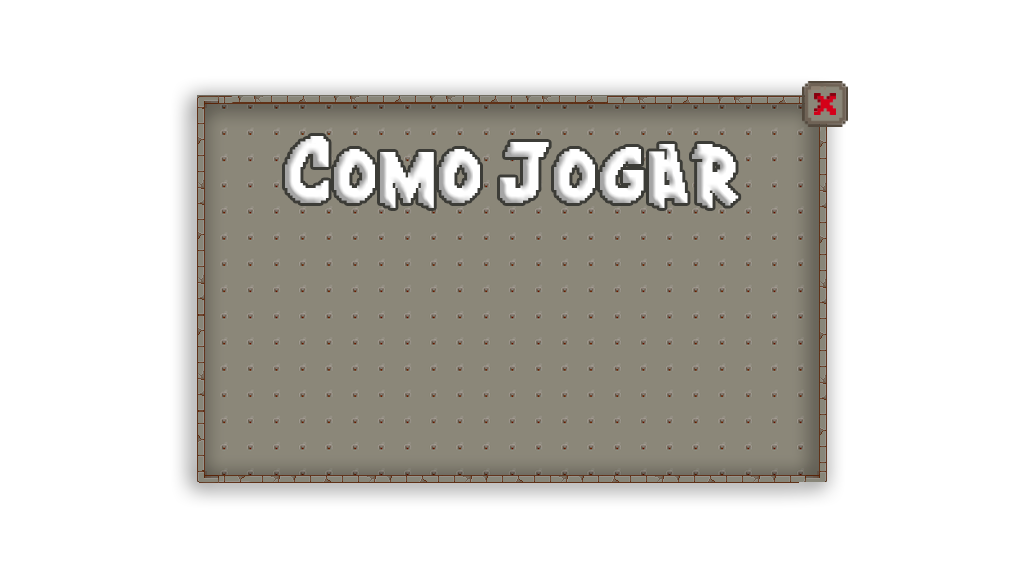
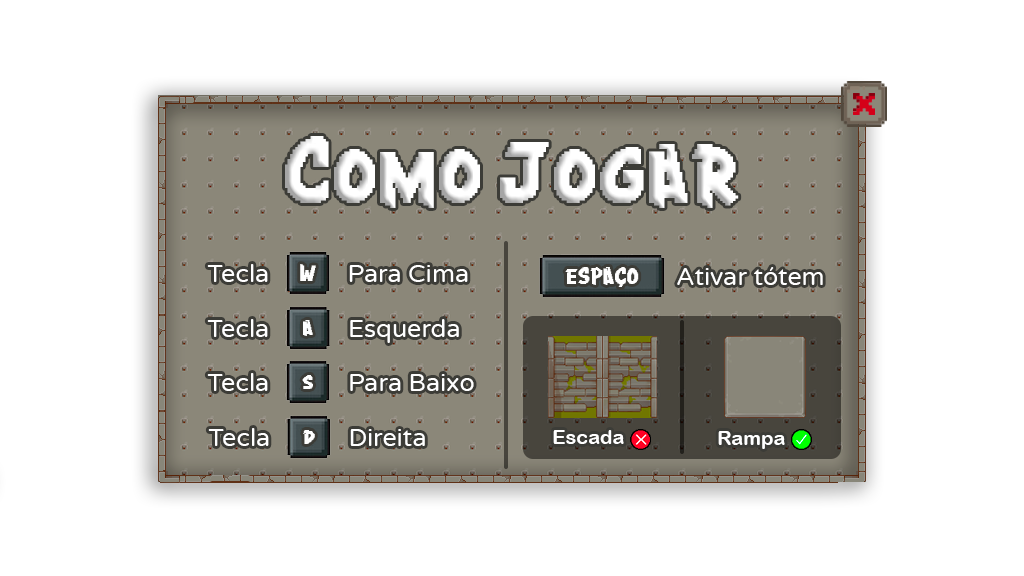
pg vitoria + como jogar + nivel

diff --git a/game.html b/game.html
@@ -5,7 +5,10 @@
     <meta name="viewport" content="width=device-width, initial-scale=1.0">
     <title>Document</title>
     <link rel="stylesheet" href="/style/game.css">
-    
+    <link rel="preconnect" href="https://fonts.googleapis.com">
+    <link rel="preconnect" href="https://fonts.googleapis.com">
+    <link rel="preconnect" href="https://fonts.gstatic.com" crossorigin>
+    <link href="https://fonts.googleapis.com/css2?family=Varela+Round&display=swap" rel="stylesheet">
 </head>
 <body class="imagem_fundo">
     <div class="menu">
@@ -17,7 +20,7 @@
     
  
     <div id='fim_do_jogo'>
-        <input type="image" src="img/botao_jogar.png" height="70" value="Jogar" id="botao_jogar" onclick="jogar_novamente()">
+        <input type="image" src="img/botao_voltar.png" height="70" value="Jogar" id="botao_voltar" onclick="jogar_novamente()">
         <img src="img/Tela Final Jogo.png">
         <h1 id="Timer"> Timer</h1>
     </div>
@@ -30,7 +33,15 @@
    <div id="teste">
     <input type="image" src="img/botao_jogar.png" value="Jogar" id="botao_jogar" onclick="iniciar()">
     <input type="image" src="img/botao_comojogar.png" value="Como Jogar" id="botao_comojogar" onclick="f_comojogar()">
-    <img src="img/Tela Inicial Jogo3.png">
+    <div id="nivel_div">
+        <h2 id="nome_nivel">Selecione o Nível:</h2>
+        <select name="nivel" id="nivel">
+            <option value="nivel1">Fácil</option>
+            <option value="nivel2">Médio</option>
+            <option value="nivel3">Difícil</option>
+        </select>
+    </div>
+    <img src="img/Tela Inicial Jogo2.png">
    </div>
     
     <div id="canvas">

diff --git a/style/game.css b/style/game.css
@@ -85,13 +85,18 @@ body{
 
 #botao_jogar{
     position: absolute;
-    top: 56.2%;
+    top: 52.2%;
     left: 40.6%;
+}
+#botao_voltar{
+    position: absolute;
+    top: 66.4%;
+    left: 40.9%;
 }
 
 #botao_comojogar{
     position: absolute;
-    top: 72.6%;
+    top: 68.6%;
     left: 36%;
 }
 
@@ -139,5 +144,55 @@ body{
     height: 46px;
     position: absolute;
     top: 14.1%;
-    left: 78.3%;
+    left: 82%;
 }
+
+#Timer{
+    position: absolute;
+    top: 53%;
+    left: 32%;
+    text-align: center;
+    font-family: 'Varela Round', sans-serif;
+    color: white;
+    text-shadow: 3px 3px black;
+
+}
+
+#nome_nivel{
+    font-family: 'Varela Round', sans-serif;
+    color: white;
+    text-shadow: 3px 3px black;
+}
+
+#nivel_div{
+    display: flex;
+    flex-direction: column;
+    align-items: center;
+    position: absolute;
+    top: 84%;
+    left: 40.8%;
+}
+
+select {
+    -webkit-appearance:none;
+    -moz-appearance:none;
+    -ms-appearance:none;
+    appearance:none;
+    outline:0;
+    box-shadow:none;
+    border:0!important;
+    background: #5c6664;
+    background-image: none;
+    flex: 1;
+    padding: 8px 70px;
+    cursor:pointer;
+    font-family: 'Varela Round', sans-serif;
+    color: white;
+    text-shadow: 2px 2px black;
+    font-size: 20px;
+    font-weight: 500;
+    border-radius: 10px;
+    box-shadow: rgba(0, 0, 0, 0.315) 5px 5px 10px;
+ }
+ 
+ 

diff --git a/scripts/jogo_logica.js b/scripts/jogo_logica.js
@@ -26,7 +26,7 @@ class Boundary {
 const boundaries = []
 const offset = {
     x: -6670,
-    y: -3950
+    y: -3950    
 }
 
 collisionsMap.forEach((row, i) => {
@@ -284,7 +284,21 @@ const imagerampa2 = new Image()
 imagerampa2.src = './img/map-new-alavanca3.png'
 
 const foregroundImage = new Image()
-foregroundImage.src = './img/sombra.png'
+function selecionanivel() {
+    if (document.getElementById("nivel").value === "nivel1") {
+        console.log("Nivel 1")
+        foregroundImage.src = './img/sombra1.png'
+    } else if (document.getElementById("nivel").value === "nivel2") {
+        console.log("Nivel 2")
+        foregroundImage.src = './img/sombra2.png'
+    } else if (document.getElementById("nivel").value === "nivel3") {
+        console.log("Nivel 3")
+        foregroundImage.src = './img/sombra3.png'
+    }
+}
+
+// const foregroundImage = new Image()
+
 
 const playerDownImage = new Image()
 playerDownImage.src = './img/persDown.png'
@@ -370,6 +384,7 @@ const foreground = new Sprite({
         y: 0
     },
     image: foregroundImage
+    
 })
 
 const keys = {
@@ -442,6 +457,7 @@ function animate() {
     })
     player.draw()
     foreground.draw()
+    selecionanivel()
 
     let moving = true
 
